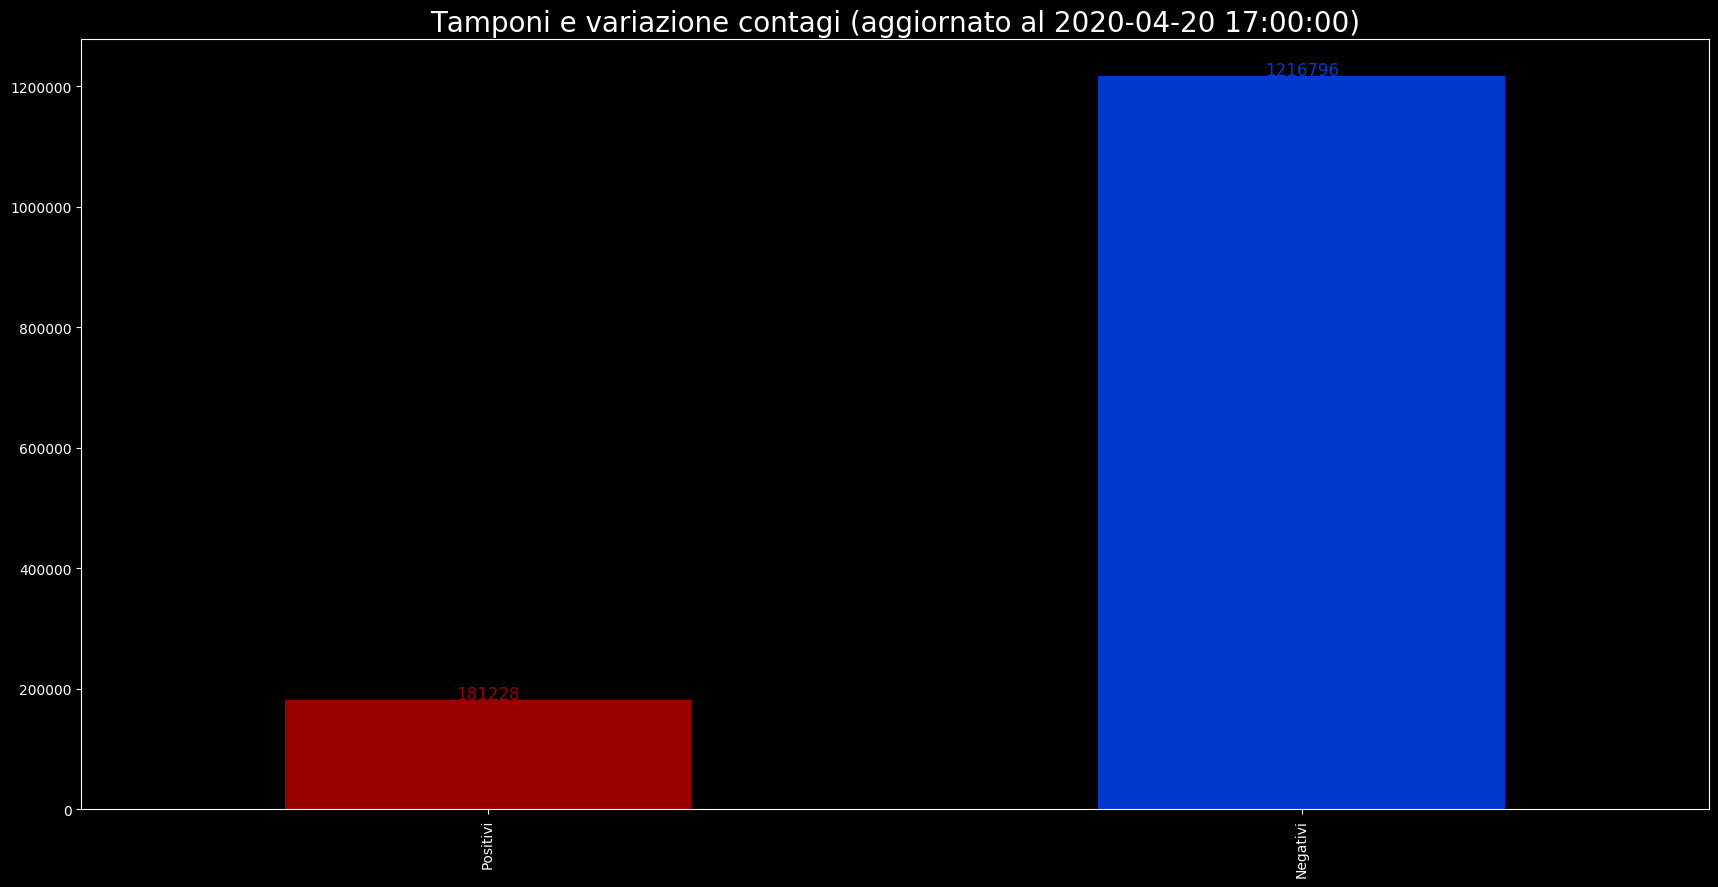
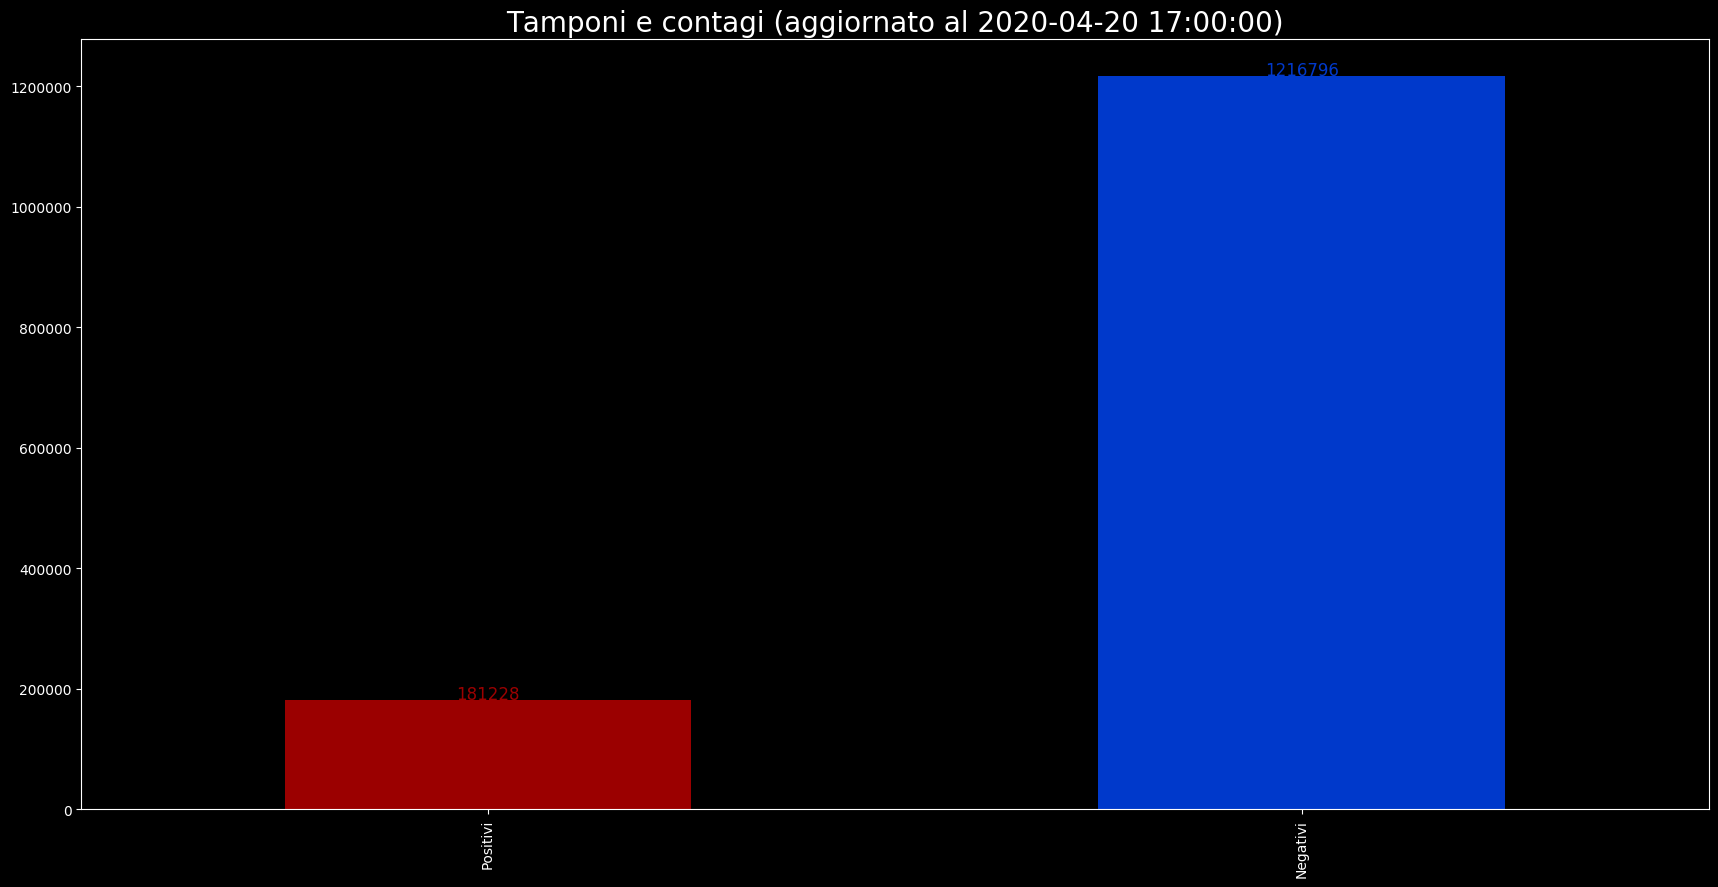
Added 20-04

Changed region(s): [[0.2468, 0.0, 0.8021, 0.0609]]

diff --git a/covid19graphs/src/ContHealDeathPerDay.py b/covid19graphs/src/ContHealDeathPerDay.py
@@ -38,9 +38,10 @@ def addtext(list1, list2, colore):
         i += 1
 
 #Funzione di salvataggio del grafico
-def savegraph(title):
+def savegraph(title, len_asse_x):
     plt.title(title, fontsize=20)
     plt.legend(fontsize = 20)
+    plt.plot([0, len_asse_x], [0, 0], color="white")
     plt.savefig('../assets/deathconhealperdayline.png', dpi=100, bbox_inches="tight")
 
 #Funzione chiamante di addtext
@@ -85,12 +86,12 @@ def main():
     # Liste di dati    
     decxday = [int(h[10]) if h[9] else 0 for h in listadati]         #Lista decessi per giorno
     guaxday = [int(h[9]) if h[8] else 0 for h in listadati]         #Lista guarigioni per giorno
-    contxday = [int(h[7])if h[7] else 0 for h in originaldays]       #Lista nuovi contagiati per giorno, non uso cumulazione poichè il dato è già giornaliero nel csv
+    varcontxday = [int(h[7])if h[7] else 0 for h in originaldays]       #Lista nuovi varcontagiati per giorno, non uso cumulazione poichè il dato è già giornaliero nel csv
     
     # Creazioni Serie
     deathseries = pd.Series(data=decxday, index=giornocasi)
     healseries = pd.Series(data=guaxday, index=giornocasi)
-    contseries = pd.Series(data=contxday, index=giornocasi)
+    varcontseries = pd.Series(data=varcontxday, index=giornocasi)
 
 
     #Inserisco stile
@@ -98,12 +99,12 @@ def main():
     plt.figure(figsize=(21, 10))
 
 
-    listaseriescelte  = [deathseries, healseries, contseries]       #Lista delle serie che voglio vedere nel grafico
+    listaseriescelte  = [deathseries, healseries, varcontseries]       #Lista delle serie che voglio vedere nel grafico
     listacolori = ["red", "green", "orange"]                        #Lista dei colori per ogni serie, in ordine
 
     # Grafico a linee
     deathseries.plot(alpha=0.5, color="red", label="Decessi", marker="o")
-    contseries.plot(alpha=0.5, color="orange", label="Contagi", marker='o')
+    varcontseries.plot(alpha=0.5, color="orange", label="varcontagi", marker='o')
     healseries.plot(alpha=0.5, color="green", label="Guarigioni", marker='o')
 
 
@@ -111,12 +112,12 @@ def main():
     aggiungitesto(giornocasi, listaseriescelte, listacolori)
     datatoday = listadati[-1][0].split("T")[0]
     oratoday = listadati[-1][0].split("T")[1]
-    savegraph("Grafico decessi/variazione contagi/guarigioni per giorno (aggiornato al {})".format(datatoday + " " + oratoday))
+    savegraph("Grafico decessi/variazione varcontagi/guarigioni per giorno (aggiornato al {})".format(datatoday + " " + oratoday), len(giornocasi))
 
     #Aggiungo statistiche top
     statsfile = open("../assets/stats.txt","w+")
-    savetopstats(listaseriescelte, ["deathtop", "healtop", "contop"], statsfile)
-    savetotstats(originaldays, ["deathtot", "healtot", "contot"], statsfile)
+    savetopstats(listaseriescelte, ["deathtop", "healtop", "varcontop"], statsfile)
+    savetotstats(originaldays, ["deathtot", "healtot", "varcontot"], statsfile)
     return
 
 

diff --git a/covid19graphs/src/RatioTestCases.py b/covid19graphs/src/RatioTestCases.py
@@ -69,7 +69,7 @@ def main():
     barseries.plot.bar(color=["#9b0000", "#0039cb"])
     plt.text(0, barseries['Positivi']+2000, str(barseries['Positivi']),fontsize=12, color="#9b0000", ha="center")
     plt.text(1, barseries['Negativi']+2000, str(barseries['Negativi']),fontsize=12, color="#0039cb", ha="center")
-    savegraph("Tamponi e variazione contagi (aggiornato al {})".format(datatoday + " " + oratoday), "../assets/posnegcumbar.png")
+    savegraph("Tamponi e contagi (aggiornato al {})".format(datatoday + " " + oratoday), "../assets/posnegcumbar.png")
     plt.clf()
 
     # Sezione dedicata al grafico a torta (aerogramma) del non cumulativo
